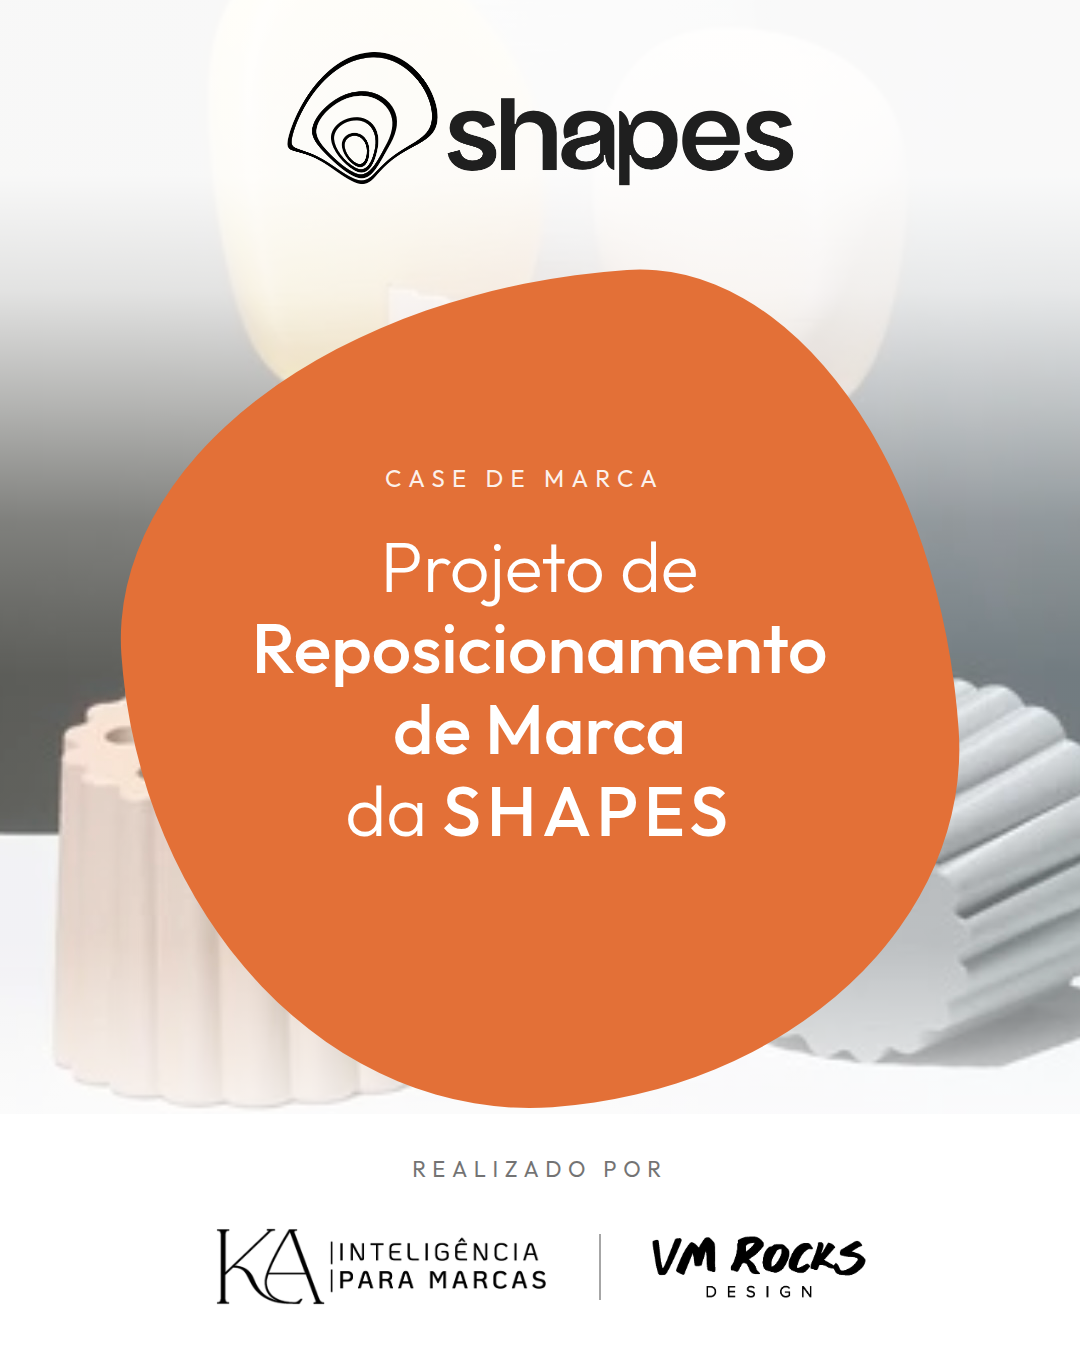
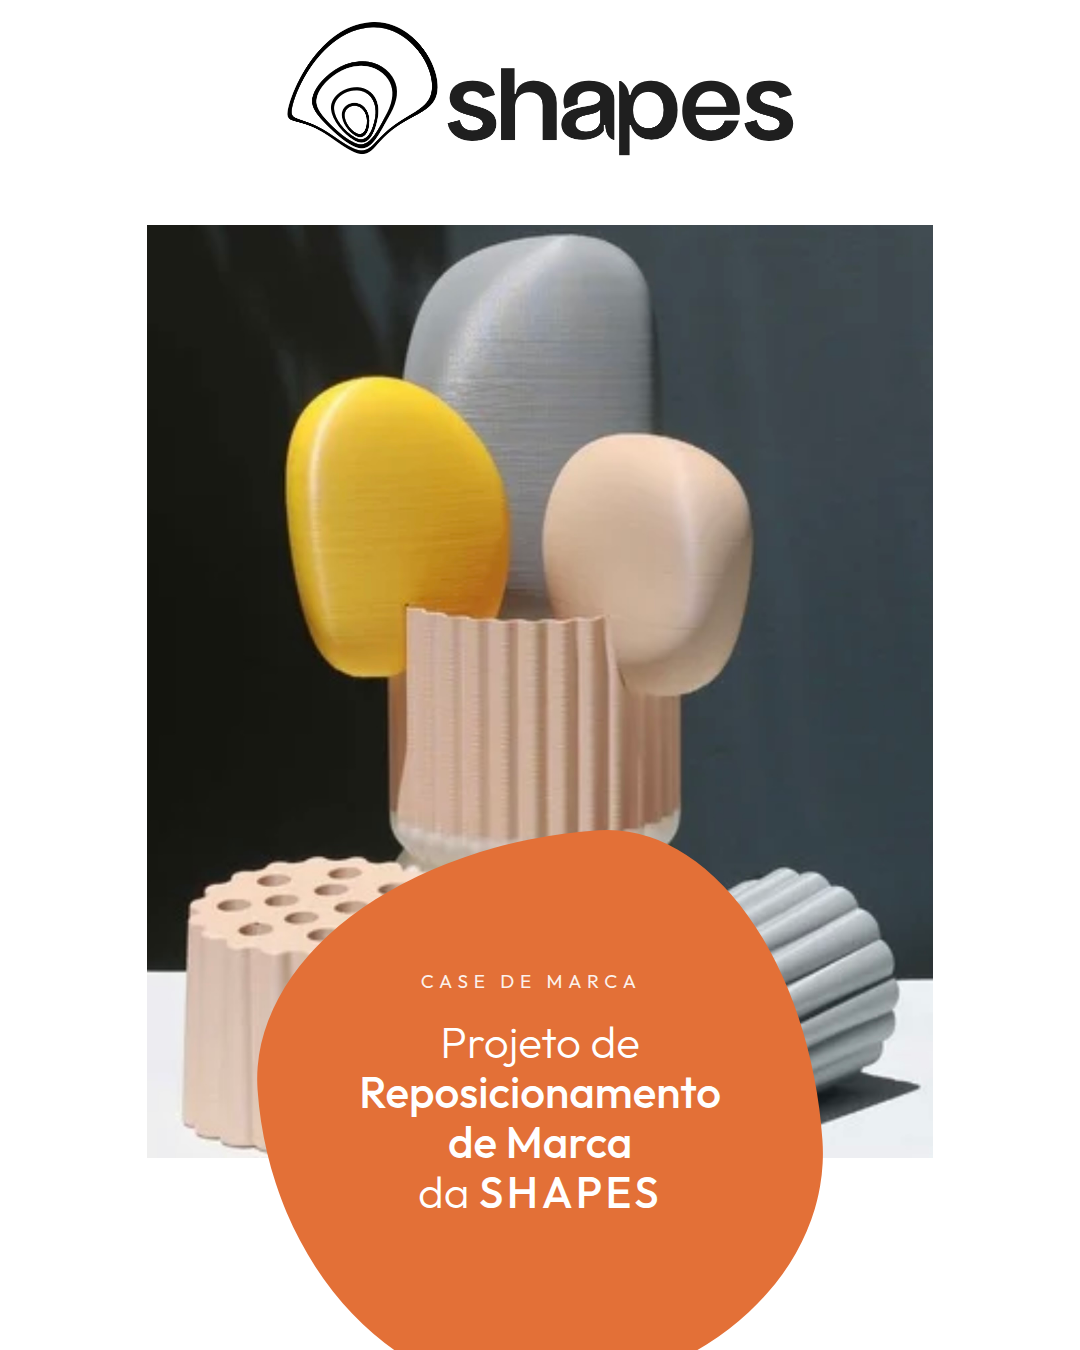
Mostra a foto da Shapes inteira e intacta na capa
A Kelly apontou que o veu descaracterizou a foto. Estava certo: a tentativa
anterior lavava a imagem para caber texto em cima dela.

Medi a foto faixa por faixa no palco de 1080x1920. Nenhuma faixa comporta
tipografia — as melhores dao media 140 a 190 com desvio de 26 a 45, que e
meio-tom e agitado, o pior caso tanto para tinta quanto para branco. Veu
resolveria o contraste e apagaria a foto. Corte resolveria o enquadramento
e mudaria a foto. As duas coisas descaracterizam.

Entao a foto deixou de ser fundo e virou prancha: proporcao original,
inteira, sobre papel. O texto vive no papel ao redor e a massa laranja
atravessa a borda de baixo da prancha, costurando os dois campos.

  - `object-fit: contain`, nao `cover`: a regra fica no codigo. Proporcao
    que nao bate sobra papel na borda, nunca perde pedaco da foto.
  - marca da Shapes em preto sobre papel puro: contraste cheio (255 x 1).
  - conferido contra o arquivo original: diferenca media de 1,56 nivel na
    faixa livre da prancha, so reamostragem.

O credito da KA e da VM passou a ser o unico bloco abaixo do recorte
1080x1350: na miniatura do perfil entram a marca do cliente, a foto e o
titulo. O credito e lido no video, que e onde ele importa.

Claude-Session: https://claude.ai/code/session_015YunUeG4gdRR6urYHdkvAD

diff --git a/sistema/sistema.css b/sistema/sistema.css
@@ -927,109 +927,75 @@ html, body {
    parceira no rodape. As cores e a forma vem da marca do cliente; o que o
    sistema KA fornece aqui e so a estrutura e o bloco de assinatura.
 
-   As variaveis abaixo sao trocadas por cliente — nada mais muda.
+   A FOTO NAO E FUNDO DE TEXTO, E NAO E RECORTADA.
+
+   Medimos a foto da Shapes faixa por faixa, nas 1080x1920 do palco: nenhuma
+   comporta tipografia. As melhores dao media 140 a 190 com desvio de 26 a
+   45 — meio-tom e agitado, o pior caso tanto para tinta quanto para branco.
+   Veu resolveria o contraste e apagaria a foto; corte resolveria o
+   enquadramento e mudaria a foto. As duas coisas descaracterizam.
+
+   Entao a foto entra como prancha: a proporcao original, inteira, sem veu,
+   sem filtro, sem corte. A foto que entra e exatamente a foto que aparece.
+   O texto vive no papel ao redor; a massa de cor atravessa a prancha, que e
+   o gesto da marca e o que costura os dois campos numa pagina so.
+
+   As variaveis abaixo sao trocadas por cliente — nada mais muda. A prancha
+   e declarada na proporcao da foto: mudou a foto, muda o par largura/altura
+   e nada mais.
    ========================================================================= */
 
 .capa-case {
   --cliente-fundo: #FFFFFF;
-  --cliente-fundo-rgb: 255, 255, 255;
-  --veu-capa: 0.45;
   --cliente-tinta: #010101;
-  --cliente-tinta-rgb: 1, 1, 1;
   --cliente-acento: #E37037;
+
+  /* Prancha da fotografia — proporcao da imagem original (1178x1399). */
+  --prancha-larg: 786px;
+  --prancha-alt: 933px;
+  --prancha-topo: 510px;
+
   background-color: var(--cliente-fundo);
 }
 
-/* Fotografia do cliente ao fundo. O veu branco por cima nao e para
-   esconder a foto: e para ela virar atmosfera em vez de assunto. A marca e
-   o titulo continuam sendo o assunto. */
-.capa-case__fundo {
+/* A pagina e de papel; a foto e um objeto sobre ela. Nenhuma opacidade,
+   mistura ou filtro toca esta regra — se um dia tocar, a foto deixou de
+   ser a foto do cliente. */
+.capa-case__foto {
   position: absolute;
-  inset: 0;
-  object-fit: cover;
+  left: 50%;
+  top: var(--prancha-topo);
+  transform: translateX(-50%);
+  width: var(--prancha-larg);
+  height: var(--prancha-alt);
+  /* `contain`, nao `cover`: a regra fica no codigo. Se a proporcao da
+     prancha nao bater com a da foto, a foto sobra papel na borda — nunca
+     perde pedaco. Errar em folga e reversivel; errar em corte, nao. */
+  object-fit: contain;
   z-index: 0;
 }
 
-/* O veu resolve o conflito entre foto viva e conteudo legivel. Ele nao e
-   uniforme: recua onde a foto pode viver e fecha onde entra texto. Duas
-   leituras possiveis da mesma foto — a escolha e de marca, nao tecnica:
-
-     .capa-case--papel  a pagina comeca em papel, a foto entra no meio.
-                        Mantem a marca da Shapes em preto.
-     .capa-case--foto   a foto ocupa a capa inteira, com scrim escuro no
-                        topo. Pede a marca da Shapes em branco.
-
-   Em comum: a base sempre resolve em papel, porque o credito da KA e da VM
-   e preto e a foto ali tem objeto escuro (minimo medido 16). */
-.capa-case__veu {
-  position: absolute;
-  inset: 0;
-  z-index: 0;
-}
-
-/* --- leitura 1: papel no topo -------------------------------------------
-   A foto nao e cortada: ela emerge. O topo e papel puro ate abaixo da
-   marca, dissolve na altura em que a forma laranja entra, e a foto aparece
-   ao redor dela. Marca em preto, como no papel. */
-.capa-case--papel .capa-case__veu {
-  /* Muitas paradas de proposito: com poucas, a queda vira uma faixa
-     horizontal visivel atravessando a foto. A curva tem de ser longa. */
-  background:
-    linear-gradient(to bottom,
-      rgba(var(--cliente-fundo-rgb), 0.97)  0%,
-      rgba(var(--cliente-fundo-rgb), 0.97) 24%,
-      rgba(var(--cliente-fundo-rgb), 0.88) 30%,
-      rgba(var(--cliente-fundo-rgb), 0.68) 36%,
-      rgba(var(--cliente-fundo-rgb), 0.46) 42%,
-      rgba(var(--cliente-fundo-rgb), 0.30) 50%,
-      rgba(var(--cliente-fundo-rgb), 0.30) 64%,
-      rgba(var(--cliente-fundo-rgb), 0.72) 72%,
-      rgba(var(--cliente-fundo-rgb), 0.92) 78%,
-      rgba(var(--cliente-fundo-rgb), 0.96) 84%,
-      rgba(var(--cliente-fundo-rgb), 0.96) 100%);
-}
-
-/* --- leitura 2: foto inteira --------------------------------------------
-   Scrim escuro no topo para assentar a marca em branco — a faixa superior
-   da foto ja e a mais escura (media medida 89 a 106), o scrim so firma. */
-.capa-case--foto .capa-case__veu {
-  background:
-    linear-gradient(to bottom,
-      rgba(var(--cliente-tinta-rgb), 0.52)  0%,
-      rgba(var(--cliente-tinta-rgb), 0.46) 20%,
-      rgba(var(--cliente-tinta-rgb), 0.34) 28%,
-      rgba(var(--cliente-tinta-rgb), 0.16) 37%,
-      rgba(var(--cliente-tinta-rgb), 0)    46%),
-    linear-gradient(to bottom,
-      rgba(var(--cliente-fundo-rgb), 0)    62%,
-      rgba(var(--cliente-fundo-rgb), 0.60) 70%,
-      rgba(var(--cliente-fundo-rgb), 0.88) 76%,
-      rgba(var(--cliente-fundo-rgb), 0.96) 82%,
-      rgba(var(--cliente-fundo-rgb), 0.96) 100%),
-    rgba(var(--cliente-fundo-rgb), 0.16);
-}
-
-/* Marca do cliente, no topo. */
-/* Marca completa do cliente, grande, abrindo a capa. */
+/* Marca completa do cliente, no papel de cima. Em preto, no branco da
+   propria marca: contraste cheio, sem negociar com a foto. */
 .capa-case__marca {
   position: absolute;
   left: 50%;
-  top: 330px;
+  top: 300px;
   transform: translateX(-50%);
   width: 520px;
+  z-index: 2;
 }
 
 /* Forma organica que carrega o titulo. E o gesto da Shapes: base neutra com
-   a cor entrando como massa, nunca como fundo inteiro. O raio assimetrico
-   evita o circulo perfeito — a marca nasce de proporcao organica, nao
-   geometrica. */
+   a cor entrando como massa, nunca como fundo inteiro. Ela atravessa a
+   borda de baixo da prancha — parte sobre a foto, parte sobre o papel. */
 .capa-case__forma {
   position: absolute;
   left: 50%;
-  top: 562px;
+  top: 1120px;
   transform: translateX(-50%) rotate(-4deg);
-  width: 830px;
-  height: 830px;
+  width: 560px;
+  height: 560px;
   background: var(--cliente-acento);
   /* Assimetria forte de proposito: a marca nasce de proporcao organica
      (Fibonacci), nao de geometria. Raio quase igual vira circulo, e
@@ -1040,7 +1006,8 @@ html, body {
   align-items: center;
   justify-content: center;
   text-align: center;
-  padding: 0 92px 72px;
+  padding: 0 52px 44px;
+  z-index: 2;
 }
 
 /* O conteudo nao acompanha a inclinacao da forma: so a massa de cor e
@@ -1048,8 +1015,8 @@ html, body {
 .capa-case__forma > * { transform: rotate(4deg); }
 
 .capa-case__rotulo {
-  margin: 0 0 34px;
-  font-size: 24px;
+  margin: 0 0 24px;
+  font-size: 19px;
   font-weight: var(--peso-regular);
   letter-spacing: 0.3em;
   text-transform: uppercase;
@@ -1059,9 +1026,9 @@ html, body {
 
 .capa-case__titulo {
   margin: 0;
-  font-size: 70px;
+  font-size: 44px;
   font-weight: var(--peso-light);
-  line-height: 1.16;
+  line-height: 1.14;
   color: var(--cliente-fundo);
 }
 
@@ -1072,19 +1039,23 @@ html, body {
   letter-spacing: 0.08em;
 }
 
-/* Assinatura do case: quem fez. Fica fora da forma, na base. */
+/* Assinatura do case: quem fez. No papel da base, fora da forma. E o unico
+   bloco que fica abaixo do recorte 1080x1350 do feed: na miniatura do
+   perfil entram a marca do cliente e o titulo, que e o que a miniatura tem
+   de dar conta. O credito aparece no video, que e onde ele e lido. */
 .capa-case__credito {
   position: absolute;
   left: 0;
   right: 0;
-  top: 1440px;
+  top: 1715px;
   display: flex;
   flex-direction: column;
   align-items: center;
+  z-index: 2;
 }
 
 .capa-case__credito-rotulo {
-  margin: 0 0 40px;
+  margin: 0 0 30px;
   font-size: 22px;
   font-weight: var(--peso-regular);
   letter-spacing: 0.3em;

diff --git a/arte/capa-case-shapes.html b/arte/capa-case-shapes.html
@@ -18,53 +18,22 @@
        base neutra com a cor entrando como massa organica
        proporcao organica (Fibonacci), nunca geometria perfeita
 
-     O credito da KA e da VM Rocks fica na base, fora da forma: o case e
-     da Shapes, a autoria e de quem assina embaixo.
+     A foto de produto aparece em tamanho real, sem veu e sem filtro, numa
+     janela aberta no papel. O texto nunca pousa sobre ela — a regra e o
+     comentario de .capa-case em sistema/sistema.css.
+
+     O credito da KA e da VM Rocks fica no papel da base: o case e da
+     Shapes, a autoria e de quem assina embaixo.
 
      Conteudo dentro do recorte 1080x1350 da grade do Instagram (y 285 a
      1635), para a capa funcionar tambem na miniatura do perfil.
-
-     Duas leituras da mesma capa, para escolha de marca. Ver o comentario
-     do veu em sistema/sistema.css.
      ===================================================================== -->
+<section class="slide slide--story capa-case">
 
-<!-- 01 · PAPEL NO TOPO — marca da Shapes em preto -->
-<section class="slide slide--story capa-case capa-case--papel">
+  <img class="capa-case__foto" src="../assets/shapes/produtos-shapes.jpg" alt="">
 
-  <img class="capa-case__fundo" src="../assets/shapes/produtos-shapes.jpg" alt="">
-  <div class="capa-case__veu"></div>
 
   <img class="capa-case__marca" src="../assets/shapes/logo-shapes-preto.png" alt="Shapes">
-
-  <div class="capa-case__forma">
-    <p class="capa-case__rotulo">Case de marca</p>
-    <p class="capa-case__titulo">
-      Projeto de<br><strong>Reposicionamento</strong><br><strong>de Marca</strong><br>
-      da <span class="marca">SHAPES</span>
-    </p>
-  </div>
-
-  <div class="capa-case__credito">
-    <p class="capa-case__credito-rotulo">Realizado por</p>
-    <div class="capa-case__assinaturas">
-      <img src="../assets/logos/ka-marcas-horizontal-bold.png"
-           alt="KA Inteligência para Marcas" style="width: 340px">
-      <div class="capa-case__filete"></div>
-      <img src="../assets/logos/vm-rocks-horizontal.png"
-           alt="VM Rocks Design" style="width: 220px">
-    </div>
-  </div>
-
-</section>
-
-
-<!-- 02 · FOTO INTEIRA — marca da Shapes em branco -->
-<section class="slide slide--story capa-case capa-case--foto">
-
-  <img class="capa-case__fundo" src="../assets/shapes/produtos-shapes.jpg" alt="">
-  <div class="capa-case__veu"></div>
-
-  <img class="capa-case__marca" src="../assets/shapes/logo-shapes-branco.png" alt="Shapes">
 
   <div class="capa-case__forma">
     <p class="capa-case__rotulo">Case de marca</p>

diff --git a/assets/shapes/LEIA-ME.md b/assets/shapes/LEIA-ME.md
@@ -23,17 +23,23 @@ Extraidos do brandbook (Canva, `DAG8XSf_Ayo` — `BRANDBOOK_SHAPES.pdf`).
 | `concha-shapes-branco.png` | simbolo sozinho, sobre cor ou fundo escuro |
 | `produtos-shapes.jpg` | foto de produto, fundo da capa de case |
 
-A foto (`produtos-shapes.jpg`, 1178x1399) foi enviada pela Kelly. Na capa
-ela entra em corte `cover` no palco 1080x1920 — escala 1,372, com 268 px
-perdidos de cada lado. Tonalidade medida por faixa, que e o que define
-onde cada elemento pode pousar:
+A foto (`produtos-shapes.jpg`, 1178x1399) foi enviada pela Kelly e entra
+na capa **inteira e intacta** — sem veu, sem filtro, sem corte.
 
-| Faixa | Media |
-|---|---|
-| y 0 a 360 | 89 a 106 (escura) |
-| y 360 a 960 | 128 a 161 |
-| y 960 a 1200 | 106 (escura, muito contrastada) |
-| y 1200 a 1920 | 174 a 208 (clara) |
+A regra nasceu de medicao. Testamos a foto como fundo de texto e medimos
+faixa por faixa, nas 1080x1920 do palco:
+
+| Faixa | Media | Desvio |
+|---|---|---|
+| y 0 a 360 | 89 a 106 | 55 a 60 |
+| y 360 a 960 | 128 a 161 | 39 a 56 |
+| y 960 a 1200 | 106 | 60 |
+| y 1200 a 1920 | 174 a 208 | 27 a 47 |
+
+Nenhuma faixa serve: as melhores sao meio-tom e agitadas, o pior caso
+tanto para tinta quanto para branco. Veu resolveria o contraste e apagaria
+a foto; corte resolveria o enquadramento e mudaria a foto. Por isso ela
+entra como prancha, na proporcao original, com o texto no papel ao redor.
 
 Os demais arquivos foram extraidos dos prints do Canva enviados pela
 Kelly: o branco virou transparencia pelo inverso da luminancia, entao as
